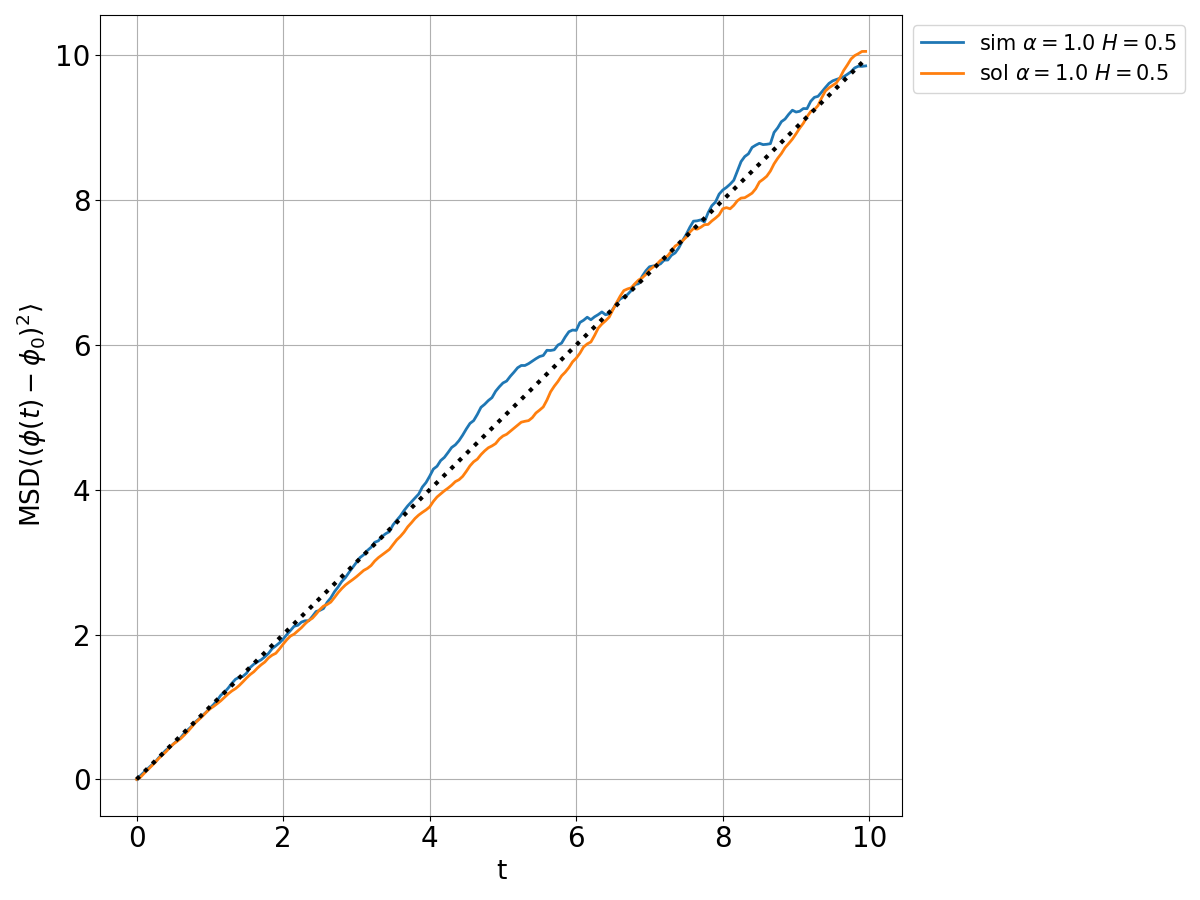
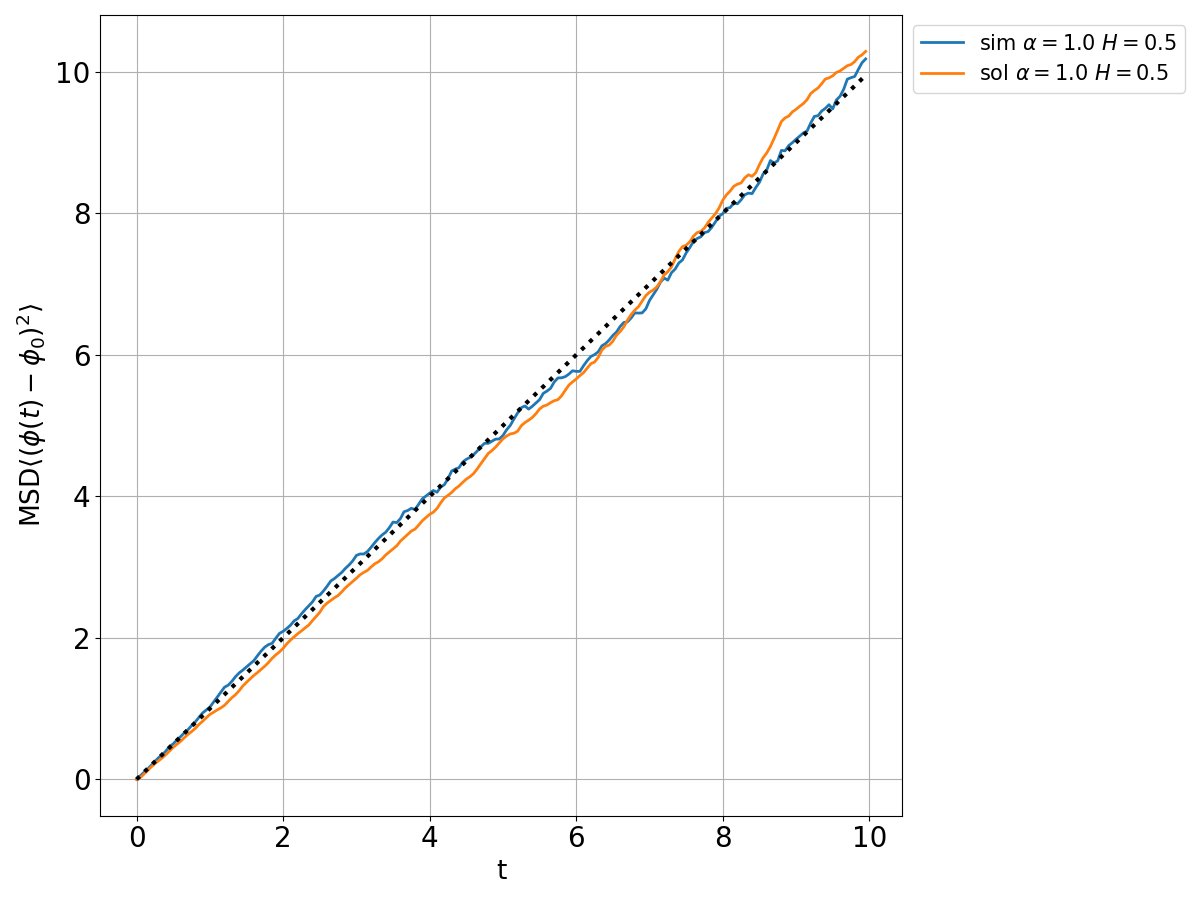
fixed moment plotting function with new structure.

diff --git a/src/plotting.py b/src/plotting.py
@@ -75,7 +75,6 @@ def plot_msd(ax, env, variable, label_an = True):
     else:
         style['label'] = rf"{style['label']} $\alpha=${env.alpha} $H=${env.H}"
 
-
     if variable == 'sim':
         msd = env.msd
         time = env.t
@@ -97,7 +96,7 @@ def plot_msd(ax, env, variable, label_an = True):
     ax.grid(':')
     ax.legend(fontsize = legend_size, bbox_to_anchor=(1, 1))
 
-def plot_moment(ax, env, variable, mom_type):
+def plot_moment(ax, env, variable, mom_type, label_an = True):
 
     """
     Plots a moment vector (mean or variance).
@@ -109,50 +108,48 @@ def plot_moment(ax, env, variable, mom_type):
     env: class
 
     variable : str
-        Can be 'phi' or 'phi_sol'. The moment was computed using L1 discretization of eom or of the convolution with the memory kernel, respectively
+        Can be 'sim' or 'sol': The moment was computed using L1 discretization of eom or of the convolution with the memory kernel, respectively
 
     moment_type : str
         Can be 'mean' or 'var' defining the type of moment, it will change y label.
 
-    ...
-    
-    Returns:
-
     """
 
     style = msd_style[variable].copy()
-    style['label'] = rf"{style['label']} $\alpha={env.alpha}$"
 
-    if variable in ['phi', 'phi_sol']:
-        attr = f"{mom_type}" if variable == 'phi' else f"{mom_type}_sol"
-        y = getattr(env, attr)
-        time = np.arange(0, len(y)) * env.h
+    if variable == 'an':
+        style['label'] = style['label'] if label_an else None
+    else:
+        style['label'] = rf"{style['label']} $\alpha=${env.alpha} $H=${env.H}"
+
+    if variable == 'sim':
+        moment = env.mean if mom_type=='mean' else env.var
+        time = env.t
 
     elif variable == 'an':
-        time = np.arange(0, env.n) * env.h
-        y = phi_var(time, env.alpha) if mom_type == 'var' else phi_mean(time)
-
+        moment = env.mean_an if mom_type=='mean' else env.var_an
+        time = env.t
+    
     elif variable == 'fit':
-        fit_indices = np.arange(1, env.n,50) 
+        fit_indices = np.arange(1, (env.n), 5) 
+        print(fit_indices)
         time = np.array(fit_indices) * env.h
 
         mean_fit = []
         var_fit = []
 
         for i in fit_indices:
-            samples = env.phi_matrix[:, i]
+            samples = env.trajectories[:, i]
             coeff, _ = data_analysis.gauss_fit(samples, bins=40)
             A, mu, sigma = coeff
 
             mean_fit.append(mu)
             var_fit.append(sigma**2)
 
-        y = var_fit if mom_type == 'var' else mean_fit
+        moment = var_fit if mom_type == 'var' else mean_fit
 
-    else:
-        raise ValueError(f"Unknown variable: {variable}")
 
-    ax.plot(time, y, **style)
+    ax.plot(time, moment, **style)
 
     ylabel_map = {
         'var': r'$\sigma^2(t)$',
@@ -163,6 +160,7 @@ def plot_moment(ax, env, variable, mom_type):
     ax.tick_params(axis='both', labelsize=size_ticks)
     ax.grid(':')
     ax.legend(fontsize=legend_size)
+
 
 def plot_pdf(ax, env, time):
     

diff --git a/scripts/plot.py b/scripts/plot.py
@@ -37,10 +37,13 @@ for alpha in alphas:
         plotting.plot_msd(ax1, env, 'an', label_an=(env.alpha == 0.3))
 
         # Plot moments
-        env.compute_mean()
         env.compute_var()
-        plotting.plot_moment(ax2, env, 'sim', 'var')
+        plotting.plot_moment(ax2, env, variable='sim', mom_type='var')
+        plotting.plot_moment(ax2, env, variable='fit', mom_type='var')
+
+        env.compute_mean()
         plotting.plot_moment(ax3, env, 'sim', 'mean')
+        plotting.plot_moment(ax3, env, 'fit', 'mean')
 
         # Plot PDF
         fig_pdf, ax_pdf = plt.subplots()
@@ -51,6 +54,6 @@ for alpha in alphas:
 fig1.tight_layout()
 fig1.savefig(f"plots/msd/{mode}msd_alpha{alphas}_H{Hs}_r{realizations*sets}_Tf{Tf}_h{h}.png", dpi=100)
 fig2.tight_layout()
-fig2.savefig(f"plots/msd/{mode}var_alpha{alphas}_H{Hs}_r{realizations*sets}_Tf{Tf}_h{h}.png", dpi=100)
+fig2.savefig(f"plots/var/{mode}var_alpha{alphas}_H{Hs}_r{realizations*sets}_Tf{Tf}_h{h}.png", dpi=100)
 fig3.tight_layout()
 fig3.savefig(f"plots/mean/{mode}mean_alpha{alphas}_H{Hs}_r{realizations*sets}_Tf{Tf}_h{h}.png", dpi=100)
